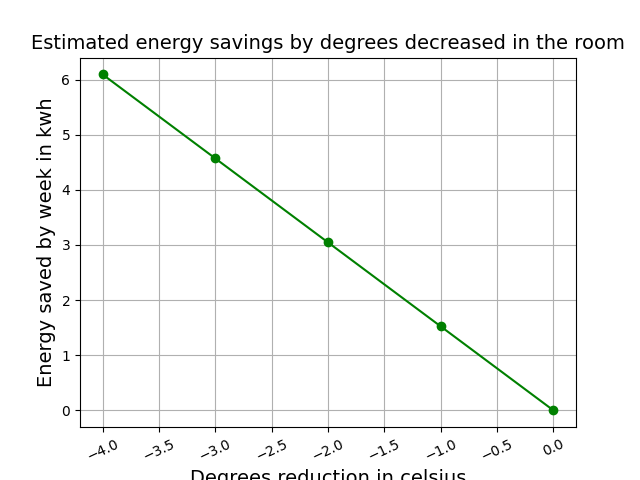
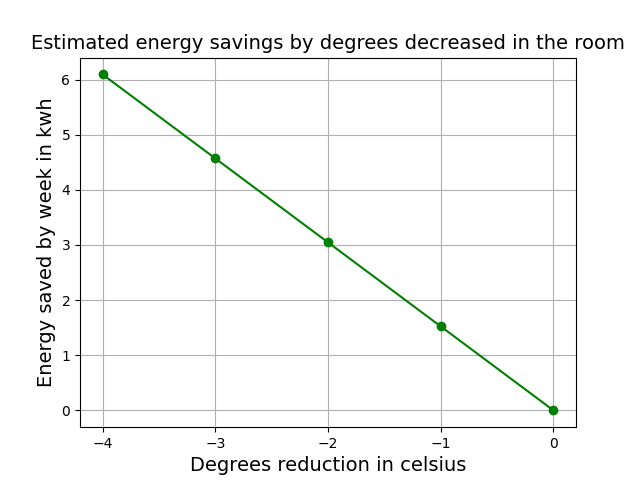
energy_management html

diff --git a/templates/base.html b/templates/base.html
@@ -147,6 +147,12 @@
                                         <span>Grafana Chart</span>
                                     </a>
                                 </li>
+                                <li class="sidebar__item selected">
+                                    <a tabindex="0" title="Energy Management" href="{{ url_for('energy_management')}}" onclick="showMVSenseDiv()">
+                                        <span class="icon-draggable"></span>
+                                        <span>Energy Management</span>
+                                    </a>
+                                </li>
 
                             </ul>
                         </li>
@@ -165,7 +171,7 @@
                             <div class="col-xl-12">
                                 <div class="panel panel--loose panel--raised base-margin-bottom">
                                     <h2 class="subtitle">{% block section1title %}{% endblock %}</h2>
-                                    
+
                                     <div id="loading" class=row>
 
                                         <div class="alert alert--info">
@@ -177,11 +183,11 @@
                                                 </div>
                                             </div>
                                         </div>
-                                    
+
                                     </div>
 
 
-                                            
+
                                     <hr>
                                     <div class="section">
                                         {% block section1content %}{% endblock %}

diff --git a/templates/energy_management.html b/templates/energy_management.html
@@ -1,0 +1,26 @@
+{% extends "base.html" %}
+
+{% block title %}Energy management{% endblock %}
+
+{% block pageTitle %}Energy management{% endblock %}
+
+{% block section1title %}<h2>Energy management</h2>{% endblock %}
+
+{% block section1content %}
+<div>
+    <img src="../static/assets/img/energy_savings/inside_outside_temp.png">
+    <img src="../static/assets/img/energy_savings/dif_inside_outside_temp.png">
+    <img src="../static/assets/img/energy_savings/estimated_consumption.png" >
+    <span>{{optimum_reduction}}</span>
+    <img src="../static/assets/img/energy_savings/estimated_energy_savings.png" >
+    <img src="../static/assets/img/energy_savings/estimated_money_savings.png" >
+    <span>{{weekly_energy_expenses}}</span>
+
+
+</div>
+
+{% endblock %}
+
+{% block js %}
+
+{% endblock %}

diff --git a/energy_savings.py b/energy_savings.py
@@ -68,39 +68,42 @@ def get_outside_temp_over_last_days(ndays):
 
 
 def inside_outside_temp_evolution_plot():
-
-    plt.plot(days, inside_temp_by_days, color='red', marker='o')
-    plt.plot(days, outside_temp_by_days, color='blue', marker='o')
-    plt.title('Average inside and outside temperature', fontsize=14)
-    plt.xlabel('Date', fontsize=14)
-    plt.xticks(rotation=25)
-    plt.ylabel('Temperature in degrees Celsius', fontsize=14)
-    plt.legend(["Inside temp","Outside temp"])
-    plt.grid(True)
+    fig,ax=plt.subplots()
+    ax.plot(days, inside_temp_by_days, color='red', marker='o')
+    ax.plot(days, outside_temp_by_days, color='blue', marker='o')
+    ax.set_title('Average inside and outside temperature', fontsize=14)
+    ax.set_xlabel('Date', fontsize=14)
+    ax.set_xticks(days,rotation=25)
+    ax.set_ylabel('Temperature in degrees Celsius', fontsize=14)
+    ax.legend(["Inside temp","Outside temp"])
+    ax.grid(True)
     plt.savefig('./static/assets/img/energy_savings/inside_outside_temp.png')
+
 
 
 #Plot of the difference of degrees between inside and outside temperature during the week
 def dif_inside_outside_temp():
-
-    plt.plot(days, dif, color='green', marker='o')
-    plt.title('Difference of degrees between \nthe inside and outside temperature', fontsize=14)
-    plt.xlabel('Date', fontsize=14)
-    plt.xticks(rotation=25)
-    plt.ylabel('Difference in degrees Celsius', fontsize=14)
-    plt.grid(True)
+    fig,ax=plt.subplots()
+    ax.plot(days, dif, color='green', marker='o')
+    ax.set_title('Difference of degrees between \nthe inside and outside temperature', fontsize=14)
+    ax.set_xlabel('Date', fontsize=14)
+    ax.set_xticks(days,rotation=25)
+    ax.set_ylabel('Difference in degrees Celsius', fontsize=14)
+    ax.grid(True)
     plt.savefig('./static/assets/img/energy_savings/dif_inside_outside_temp.png')
 
 
-def energy_consumption_by_days():
 
-    plt.plot(days, consumption, color='brown', marker='o')
-    plt.title('Estimated consumption by days', fontsize=14)
-    plt.xlabel('Date', fontsize=14)
-    plt.xticks(rotation=25)
-    plt.ylabel('Consumption in kwh', fontsize=14)
-    plt.grid(True)
+def energy_consumption_by_days():
+    fig,ax=plt.subplots()
+    ax.plot(days, consumption, color='brown', marker='o')
+    ax.set_title('Estimated consumption by days', fontsize=14)
+    ax.set_xlabel('Date', fontsize=14)
+    ax.set_xticks(days,rotation=25)
+    ax.set_ylabel('Consumption in kwh', fontsize=14)
+    ax.grid(True)
     plt.savefig('./static/assets/img/energy_savings/estimated_consumption.png')
+
 
 
 def compute_energy_expenses_over_week():
@@ -162,26 +165,39 @@ def compute_optimum_reduction():
     return round(temp_inside_average -optimum_temp,1)
 
 def plot_energy_savings_by_temp():
-
-    plt.plot([-i for i in range(5)], energy_savings, color='g', marker='o')
-    plt.title('Estimated energy savings by degrees decreased in the room', fontsize=14)
-    plt.xlabel('Degrees reduction in celsius', fontsize=14)
-    plt.xticks(rotation=25)
-    plt.ylabel('Energy saved by week in kwh', fontsize=14)
-    plt.grid(True)
+    fig,ax=plt.subplots()
+    ax.plot([-i for i in range(5)], energy_savings, color='g', marker='o')
+    ax.set_title('Estimated energy savings by degrees decreased in the room', fontsize=14)
+    ax.set_xlabel('Degrees reduction in celsius', fontsize=14)
+    ax.set_xticks([-i for i in range(5)],rotation=25)
+    ax.set_ylabel('Energy saved by week in kwh', fontsize=14)
+    ax.grid(True)
     plt.savefig('./static/assets/img/energy_savings/estimated_energy_savings.png')
 
 
+
 def plot_money_saved_by_temp():
-    plt.plot([-i for i in range(5)], money_savings, color='g', marker='o')
-    plt.title('Estimated energy savings by degrees decreased in the room', fontsize=14)
-    plt.xlabel('Degrees reduction in celsius', fontsize=14)
-    plt.xticks(rotation=25)
-    plt.ylabel('Money saved by week in euros', fontsize=14)
-    plt.grid(True)
+    fig,ax=plt.subplots()
+    ax.plot([-i for i in range(5)], money_savings, color='g', marker='o')
+    ax.set_title('Estimated energy savings by degrees decreased in the room', fontsize=14)
+    ax.set_xlabel('Degrees reduction in celsius', fontsize=14)
+    ax.set_xticks([-i for i in range(5)], rotation=25)
+    ax.set_ylabel('Money saved by week in euros', fontsize=14)
+    ax.grid(True)
     plt.savefig('./static/assets/img/energy_savings/estimated_money_savings.png')
 
 
+
+def get_energy_infos():
+    #dif_inside_outside_temp()
+    inside_outside_temp_evolution_plot()
+    energy_consumption_by_days()
+    weekly_energy_expenses = compute_energy_expenses_over_week()
+    plot_energy_savings_by_temp()
+    plot_money_saved_by_temp()
+    optimum_reduction = compute_optimum_reduction()
+    return optimum_reduction, weekly_energy_expenses
+"""
 if (__name__ == "__main__"):
     print("Obervations : ")
     dif_inside_outside_temp()
@@ -193,3 +209,4 @@ if (__name__ == "__main__"):
     plot_energy_savings_by_temp()
     plot_money_saved_by_temp()
     print("The optimum temperature in an office is ",optimum_temp,"°C so we advice you to change the temperature by ",compute_optimum_reduction(),"°C")
+"""

diff --git a/flaskApp.py b/flaskApp.py
@@ -28,6 +28,7 @@ from config_sensors import get_sensors
 from alert_profiles import alerts
 from data_collector import get_latest_sensor_reading
 from heatmap_creation import get_heatmap
+from energy_savings import get_energy_infos, optimum_temp
 
 app = Flask(__name__)
 app.secret_key = b'_5#y2L"F4Q8z\n\xec]/'
@@ -144,6 +145,14 @@ def heatmap():
     heatmap = get_heatmap()
 
     return render_template("heatmap.html")
+
+@app.route('/energy_management', methods=["GET","POST"])
+def energy_management():
+    optimum_reduction, weekly_energy_expenses=get_energy_infos()
+    energy_expenses_sentence =str("We estimate in the last 7 days that you spent "+str(weekly_energy_expenses)+"€ for the temperature regulation in your room ")
+    optimum_reduction_sentence =str("The optimum temperature in an office is "+str(optimum_temp)+"°C so we advice you to change the temperature by "+str(optimum_reduction)+"°C")
+    return render_template("energy_management.html", weekly_energy_expenses=energy_expenses_sentence,
+                                                     optimum_reduction=optimum_reduction_sentence)
 
 @app.route('/snooze_sensors', methods=['GET', 'POST'])
 def snooze_sensors():

diff --git a/heatmap_creation.py b/heatmap_creation.py
@@ -51,10 +51,8 @@ def dataframe_creation():
 #Put temperature of the sensors in the df
 def AssignTemperature():
     average_temp =get_average_temp(datetime.today())
-    print("Average temperature : ",average_temp)
     temp=GetTemperature()
 
-    print("temp:",temp)
     for i in range(len(df_sensors)):
         if str(i+1) in temp :
             df_sensors.iloc[i,4]=temp[str(i+1)]
@@ -138,6 +136,7 @@ def heatmap_2D(nbpoints):
 
     plt.savefig('./static/assets/img/2dHeatmap.png')
 
+
     img=Image.open("./static/assets/img/2dHeatmap.png")
     img=img.resize((800,600),Image.ANTIALIAS)
     img.save("./static/assets/img/2dHeatmap.png")
@@ -169,14 +168,7 @@ def heatmap_3D(df):
     ax.set_zlabel('Z coordinates (cm)')
     ax.set_title('3D corner view')
     plt.savefig('./static/assets/img/3dHeatmap.png')
-    """
-    plt.show()
-    bytes_image=io.BytesIO()
-    plt.savefig(bytes_image,format="png")
-    bytes_image.seek(0)
-    #plt.show()
-    return bytes_image
-    """
+
 
 
 def get_heatmap():
